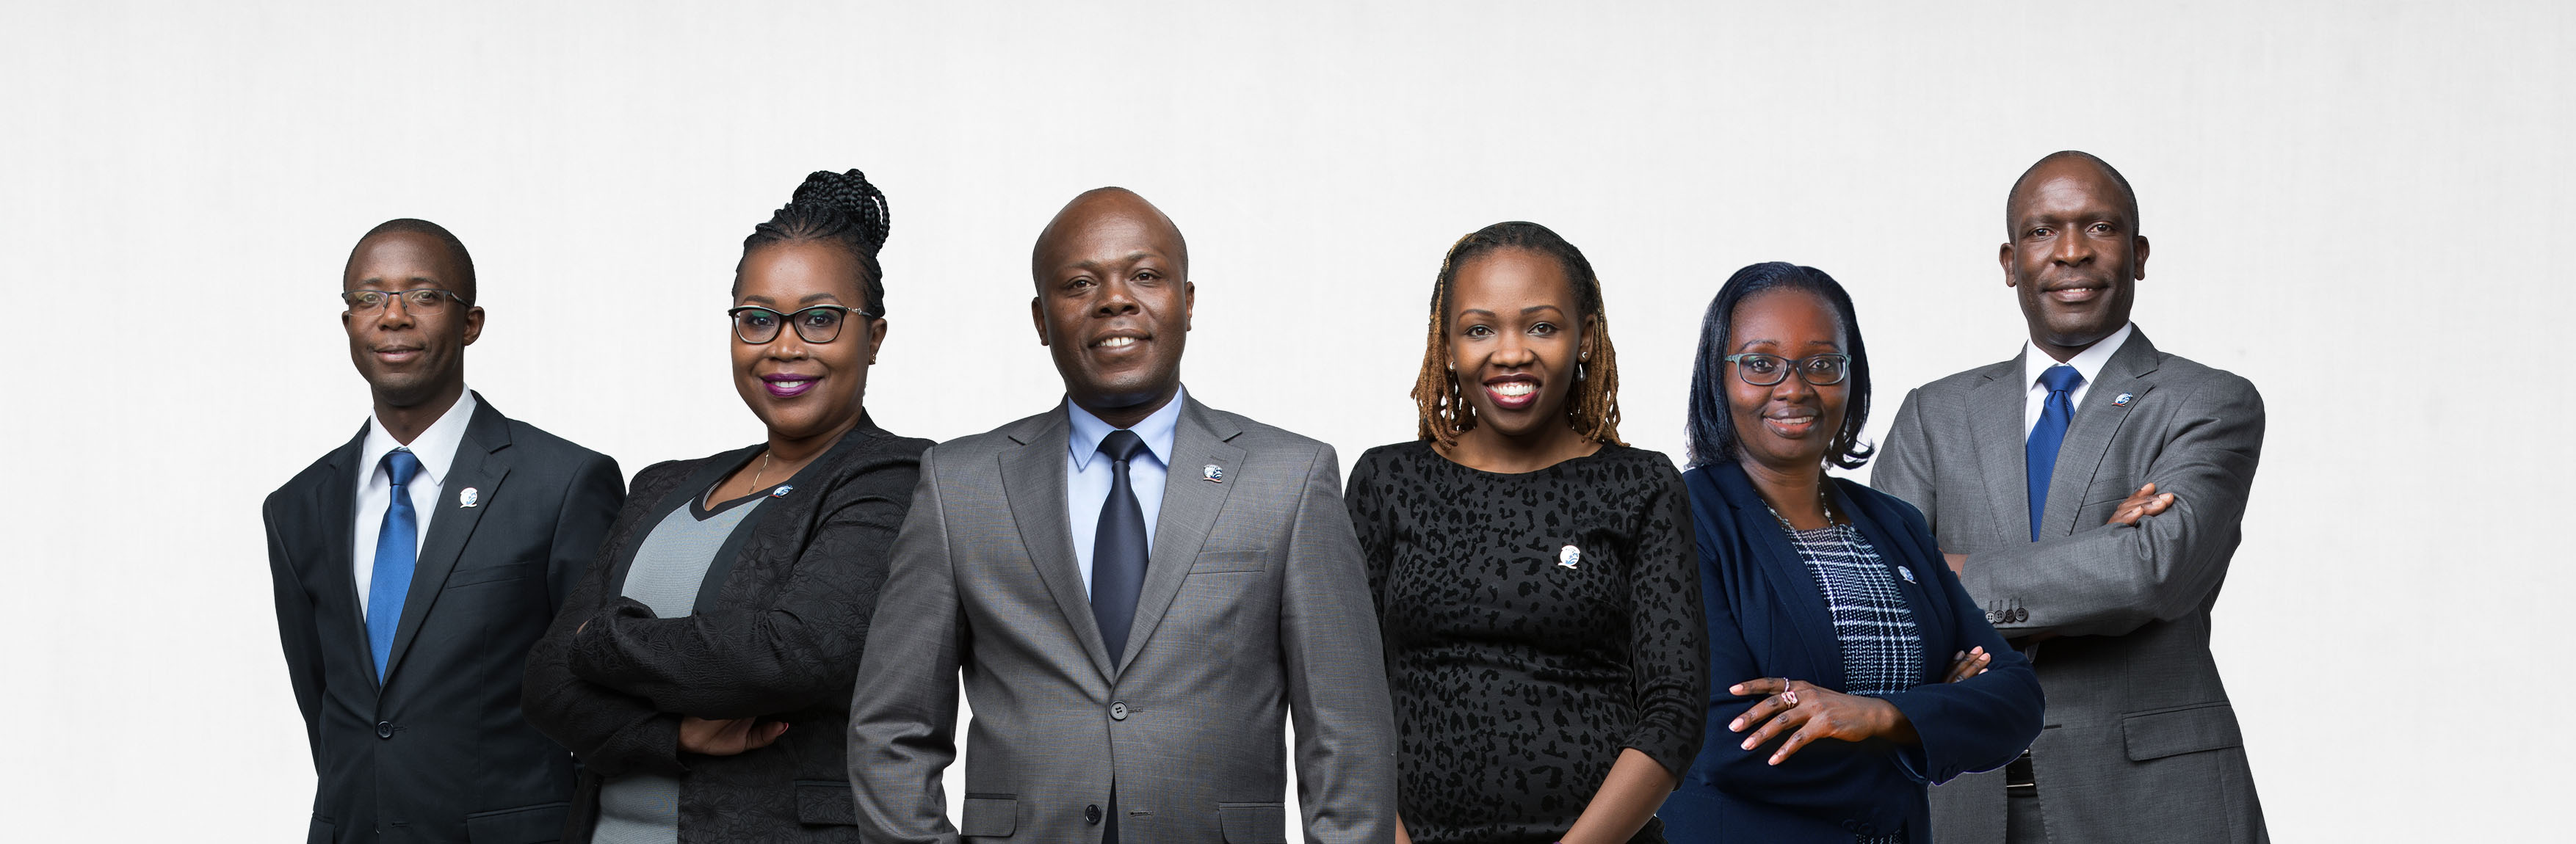
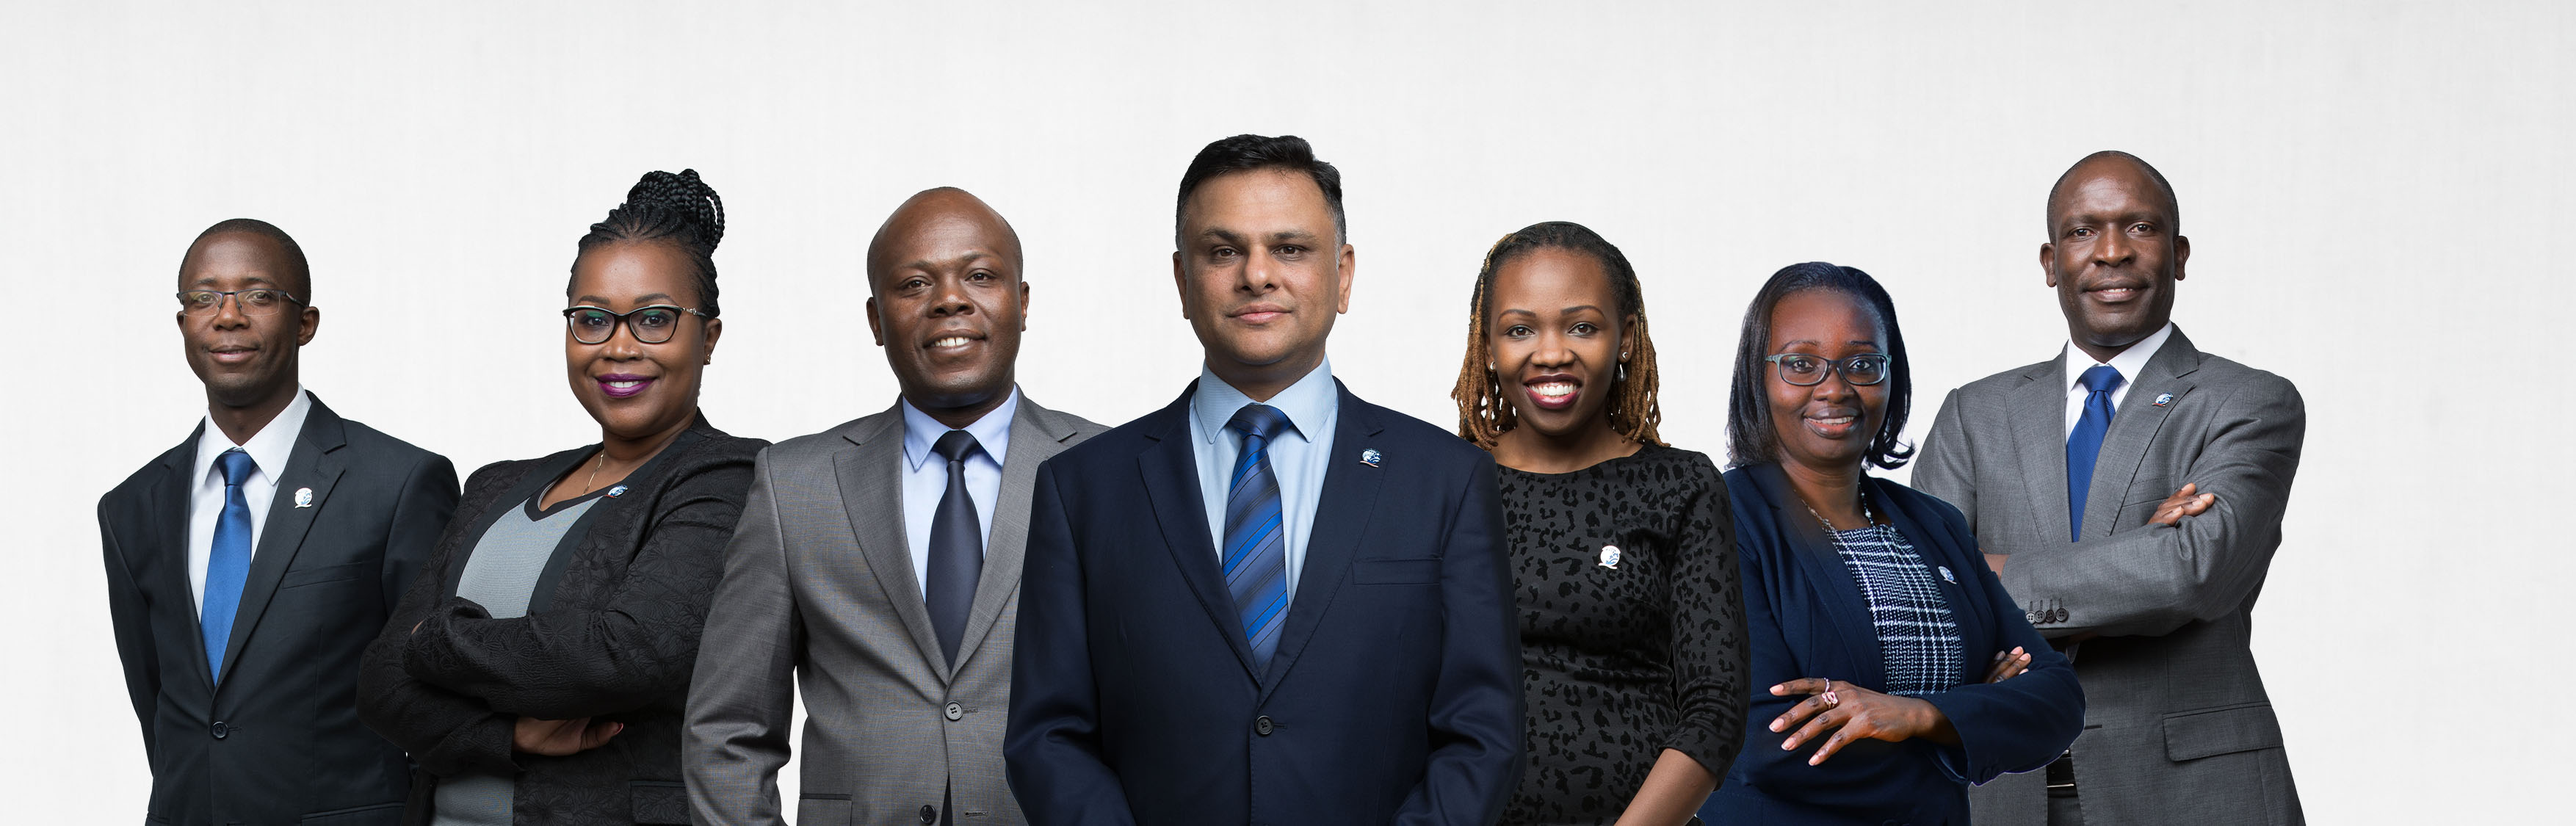
adjustment

diff --git a/css/draft.css b/css/draft.css
@@ -244,12 +244,12 @@ a:focus {
 
 .banner-asset {
     width: 100%;
-    height: 65vh;
+    height: 55vh;
     background-image: url(../img/group/asset.jpg);
     background-size: cover;
     background-repeat: no-repeat;
     background-position: top;
-    margin-top: -5%;
+    margin-top: 3%;
 }
 
 

diff --git a/management_group.php b/management_group.php
@@ -104,7 +104,7 @@
                 <div class="row lead-img">
 
                     <div class="col-md-3 leader-img wow fadeInUp" data-wow-delay="0.1s">
-                        <img src="img/apa3/keval.jpg" class="img" alt="">
+                        <img src="img/apa4/keval.jpg" class="img" alt="">
                         <h5 class="title-name">
                             Keval Shah<br>
                             <small>Group Chief Finance Officer </small>
@@ -130,7 +130,7 @@
                     </div>
 
                     <div class="col-md-3 leader-img wow fadeInUp" data-wow-delay="0.1s">
-                        <img src="img/apa3/james.jpg" class="img" alt="">
+                        <img src="img/apa4/james.jpg" class="img" alt="">
                         <h5 class="title-name">
                             James Nyakomitta<br>
                             <small>Group Chief Information Officer</small>
@@ -143,7 +143,7 @@
                     </div>
 
                     <div class="col-md-3 leader-img wow fadeInUp" data-wow-delay="0.1s">
-                        <img src="img/apa3/chris.jpg" class="img" alt="">
+                        <img src="img/apa4/chris.jpg" class="img" alt="">
                         <h5 class="title-name">
                             Chris Ngala<br>
                             <small>Group Head of Internal Audit</small>
@@ -162,7 +162,7 @@
                 <div class="row lead-img">
 
                     <div class="col-md-3 leader-img wow fadeInUp" data-wow-delay="0.1s">
-                        <img src="img/apa3/benjamin.jpg" class="img" alt="">
+                        <img src="img/apa4/benjamin.jpg" class="img" alt="">
                         <h5 class="title-name">
                             Benjamin Otieno<br>
                             <small>Group Risk manager</small>
@@ -175,7 +175,7 @@
                     </div>
 
                     <div class="col-md-3 leader-img wow fadeInUp" data-wow-delay="0.1s">
-                        <img src="img/apa3/judy.jpg" class="img" alt="">
+                        <img src="img/apa4/judy.jpg" class="img" alt="">
                         <h5 class="title-name">
                             Judith Bogonko Juma<br>
                             <small>Head of Customer Service</small>
@@ -188,7 +188,7 @@
                     </div>
 
                     <div class="col-md-3 leader-img wow fadeInUp" data-wow-delay="0.1s">
-                        <img src=" img/apa3/jackie.jpg" class="img" alt="">
+                        <img src=" img/apa4/jackie.jpg" class="img" alt="">
                         <h5 class="title-name">
                             Jackie Tonui<br>
                             <small>Head of Corporate Communications</small>
